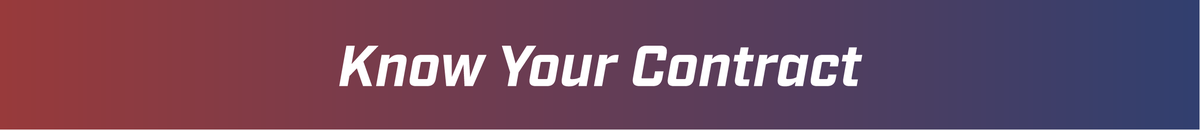
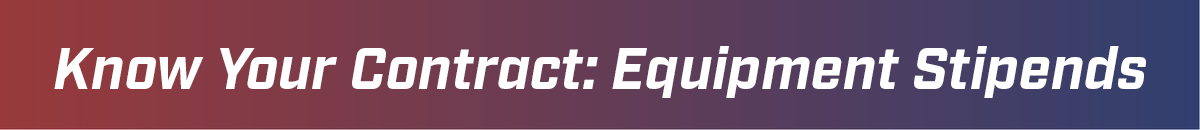
Add files via upload

Changed region(s): [[0.0308, 0.3385, 0.9558, 0.7692]]

diff --git a/index.html b/index.html
@@ -195,7 +195,9 @@ body {
   font-weight: 300;
   line-height: 25px;
   text-align: justify;
+  margin-top: 12px;
 }
+.qa-a:first-of-type { margin-top: 6px; }
 
 /* ─────────────────────────────────────
    PSRA IN THE COMMUNITY
@@ -331,7 +333,7 @@ body {
        HERO — referees photo, title baked in
   ══════════════════════════════ -->
   <div class="hero">
-    <img src="images/headerAsset 3-100.jpg" alt="Message from PSRA President Peter Manikowski"/>
+    <img src="images/headerAsset-3-100.jpg" alt="Message from PSRA President Peter Manikowski"/>
   </div>
 
   <!-- ══════════════════════════════
@@ -348,6 +350,22 @@ body {
 <p>Through Unity, Strength.</p>
 <p>Peter Manikowski</p>
   </div>
+<!-- ══════════════════════════════
+       NEW MEMBERS
+       Pink bg (#ffe6e9) wraps both the gradient pill image AND the names below.
+       The pill image already has pink padding baked in on its left/right/top.
+  ══════════════════════════════ -->
+  <div class="nm-section">
+    <img src="images/committee updatesAsset 5-8.png" alt="New Members: Welcome to PSRA!"/>
+    <div class="nm-grid">
+      <div class="nm-name">Ryan Homik</div>
+      <div class="nm-name">Alex Adkins</div>
+      <div class="nm-name">Laadi Issaka Black</div>
+      <div class="nm-name">Emmanuel Padilla</div>
+      <div class="nm-name">Deny Kulasinac</div>
+      <div class="nm-name">Jorge Escobar</div>
+    </div>
+  </div>
 
 
   <!-- ══════════════════════════════
@@ -360,38 +378,18 @@ body {
     <img src="images/committee updatesAsset 4-100.jpg" alt="Committee Updates"/>
   </div>
   <div class="body-sec">
-    <p><strong>Nominations &amp; Voting Committee:</strong> Nothing to report</p>
-<p><strong>Issues &amp; Grievances Committee:</strong> Processed three grievances. Continued to take member questions on all CBA items (both Units). Continued advising Board on CBA issues and member inquiries. Always open to questions and hypothetical scenarios!</p>
-    <p><strong>New Member Committee:</strong> In Q1 2026, PSRA admitted 2 new members to the Association.</p>
-    <p><strong>Media Committee:</strong> We'd like to give a special thanks to committee member Chris Canales for his work on all the graphics you saw on social media for the World Cup matches. Post-World Cup, we're continuing with our usual social media themes and returning to the content created this year. During the World Cup, we had 931k views of our content on Facebook and gained 607 new followers, which is a 7% increase. On Instagram, we had 323k views and 192 new followers; an 8% increase. Adding a nominal 30k impressions from Twitter/Bluesky brings our total to just over 1.28m views for the tournament. The Men&rsquo;s World Cup was a great showcase for our Officials, for us as an organization, and for the professionalism and experience we all possess. </p>
-    <p><strong>Medical Committee:</strong> Continued assisting members with questions related to PRO medical.</p>
-    <p><strong>Financial Planning Committee:</strong> No formal committee activity in Q2.</p>
-<p><strong>BU2 Negotiating Committee:</strong></p>
-    <ul>
-      <li>
-        <p>Two-day bargaining sessions were held in June, July, and August. We are pleased with the progress we've made so far, and look forward to more improvements for Officials in BU2 leagues.</p>
-      </li>
-    </ul>
+	  <p><strong>BU2 Negotiating Committee:</strong> Two-day bargaining sessions were held in June, July, and August. We are pleased with the progress we've made so far, and look forward to more improvements for Officials in BU2 leagues.
+      <p><strong>Media Committee:</strong> We'd like to give a special thanks to committee member Chris Canales for his work on all the graphics you saw on social media for the World Cup matches. Post-World Cup, we're continuing with our usual social media themes and returning to the content created this year. During the World Cup, we had 931k views of our content on Facebook and gained 607 new followers, which is a 7% increase. On Instagram, we had 323k views and 192 new followers; an 8% increase. Adding a nominal 30k impressions from Twitter/Bluesky brings our total to just over 1.28m views for the tournament. The Men&rsquo;s World Cup was a great showcase for our Officials, for us as an organization, and for the professionalism and experience we all possess.
+      
+    <p><strong>No formal committee activity for the following comittees:</strong> </p>
+    <p>Financial Planning Committee<br>
+      Issues &amp; Grievances Committee<br>
+      Medical Committee<br>
+    Nominations &amp; Voting Committee</p>
+    
   </div>
 
-  <!-- ══════════════════════════════
-       KNOW YOUR CONTRACT
-       Full-width gradient band image, then white body text
-  ══════════════════════════════ -->
-  <div class="kyc-band">
-    <img src="images/kyc.png" alt="Know Your Contract"/>
-  </div>
-  <div class="body-sec">
-    <p><strong>Equipment Stipends</strong></p>
-    <p>A key benefit of a Collective Bargaining Agreement (CBA) is knowing every perk available to you, including stipends for work-related items. Under the BU1 and BU2 CBAs, Members are entitled to stipends for essential equipment like cards, flags, and whistles. When PSRA Members actively claim these stipends, it gives our bargaining team the leverage needed to negotiate even broader equipment benefits in future contracts. </p>
-    <p><strong>BU2: Article XIV, Section 3, H </strong></p>
-    <p>&ldquo;PRO shall reimburse Referees and Assistant Referees each Season up to ninety-five dollars ($95.00) in the 2023 Season (amount to increase by three percent (3.0%) in each subsequent Season) upon submission of a valid receipt for work-related equipment, including, but not limited to, whistles, custom ear molds, wristbands, flags, and shoes for officiating and/or training.&rdquo;</p>
-    <p>For 2026 the reimbursable amount is $103.81. </p>
-    <p><strong>BU1: Article XIV, Section 3, C</strong></p>
-    <p>&ldquo;PRO shall reimburse each Referee and Assistant Referee up to seventy-five dollars ($75.00) per year, which shall increase by 3% in 2025, 7% in 2026, 3% in 2027, 3% in 2028, 4% in 2029, and 4% in 2030 through the date of expiration, as set forth in Exhibit K, with appropriately-submit receipts, for officiating supplies, subject to approval by PRO, which shall not be unreasonably denied.&rdquo;</p>
-    <p>For 2026, the reimbursable amount is $82.68.</p>
-  </div>
-
+  
   <!-- ══════════════════════════════
        MEMBER'S SPOTLIGHT
        Entire section — image + intro text + Q&A — sits on pink (#ffe6e9) bg.
@@ -408,58 +406,73 @@ body {
     <div class="qna">
       <div class="qa">
         <p class="qa-q">Q: <strong>Where did your soccer journey begin?</strong></p>
-<p class="qa-a">A: I grew up in Cache Valley in northern Utah, near Logan. I started playing soccer when I was 5 years old, and my dad and I started refereeing together when I was 12. Soccer was always a huge part of my life, and I played all through high school.<br>
-  I originally started running track just to stay in shape for soccer, but I found out I was pretty good at it! Our 4x100 relay team won a state championship, and I eventually walked onto the track team at Utah State University, where I competed in the heptathlon. Through all of that, I kept refereeing.</p>
-</div>
+<p class="qa-a">A: I grew up in Cache Valley in northern Utah, near Logan. I started playing soccer when I was 5 years old, and my dad and I started refereeing together when I was 12. Soccer was always a huge part of my life, and I played all through high school.</p>
+<p class="qa-a">I originally started running track just to stay in shape for soccer, but I found out I was pretty good at it! Our 4x100 relay team won a state championship, and I eventually walked onto the track team at Utah State University, where I competed in the heptathlon. Through all of that, I kept refereeing.</p>
+      </div>
       <div class="qa">
         <p class="qa-q">Q: <strong>Did you ever think about giving up officiating?</strong></p>
-<p class="qa-a">A: Absolutely. I had graduated, landed my &quot;big-girl&quot; job teaching PE and ninth-grade health, and I was getting married. I thought it was probably time to move on from refereeing.<br>
-  Thankfully, I met a mentor, J.P. Spicer-Escalante, who introduced me to the pathway that eventually led to professional officiating. He encouraged me not to quit, and I owe a lot to both him and my dad. Looking back, I'm so glad I kept going.</p>
-</div>
+<p class="qa-a">A: Absolutely. I had graduated, landed my &quot;big-girl&quot; job teaching PE and ninth-grade health, and I was getting married. I thought it was probably time to move on from refereeing.</p>
+<p class="qa-a">Thankfully, I met a mentor, J.P. Spicer-Escalante, who introduced me to the pathway that eventually led to professional officiating. He encouraged me not to quit, and I owe a lot to both him and my dad. Looking back, I'm so glad I kept going.</p>
+      </div>
       <div class="qa">
         <p class="qa-q">Q: <strong>What does life look like outside of officiating?</strong></p>
-<p class="qa-a">A:Busy! We live in Idaho Falls, Idaho, and I wear a lot of different hats. I'm a certified personal trainer, coach strength and speed for high school girls, help teach dance, and of course officiate soccer.<br>
-  I have a hard time saying no because I genuinely love giving back, especially when it comes to kids. One of my favorite things is helping people discover what they're capable of. I had a student in PE who struggled to run a mile, and by the end of the semester, he'd improved dramatically and actually started enjoying being active. Watching someone find confidence in themselves is incredibly rewarding.</p>
-</div>
+<p class="qa-a">A:Busy! We live in Idaho Falls, Idaho, and I wear a lot of different hats. I'm a certified personal trainer, coach strength and speed for high school girls, help teach dance, and of course officiate soccer.</p>
+<p class="qa-a">I have a hard time saying no because I genuinely love giving back, especially when it comes to kids. One of my favorite things is helping people discover what they're capable of. I had a student in PE who struggled to run a mile, and by the end of the semester, he'd improved dramatically and actually started enjoying being active. Watching someone find confidence in themselves is incredibly rewarding.</p>
+      </div>
       <div class="qa">
         <p class="qa-q">Q: <strong>You've done dance, cheer, soccer and track. How have those experiences shaped you?</strong></p>
-<p class="qa-a">A: My parents did a great job of exposing me to lots of different activities instead of pushing me into just one sport. I danced for 14 years, cheered in high school, played soccer and competed in track.<br>
-  Each activity taught me something different. Dance helped me understand body control and coordination. Soccer gave me a competitive edge and taught me teamwork. Track challenged me mentally because individual events are completely on you. Looking back, all of those experiences built on each other and helped shape who I am today.<br>
-  They also taught me how to manage my time and prioritize what matters. I really learned how to balance work, family and the things I love.</p>
-</div>
+<p class="qa-a">A: My parents did a great job of exposing me to lots of different activities instead of pushing me into just one sport. I danced for 14 years, cheered in high school, played soccer and competed in track.</p>
+<p class="qa-a">Each activity taught me something different. Dance helped me understand body control and coordination. Soccer gave me a competitive edge and taught me teamwork. Track challenged me mentally because individual events are completely on you. Looking back, all of those experiences built on each other and helped shape who I am today.</p>
+<p class="qa-a">They also taught me how to manage my time and prioritize what matters. I really learned how to balance work, family and the things I love.</p>
+      </div>
       <div class="qa">
         <p class="qa-q">Q: <strong>Tell us about your family.</strong></p>
 <p class="qa-a">A:My husband and I have two daughters who definitely keep us busy!<br>
-  Ellie is 10 years old. She competes in dance, loves reading, is a huge Harry Potter fan and recently discovered pickleball.<br>
-  Addie is 6 and competes in gymnastics. She's naturally athletic and competitive. She even taught herself how to do an aerial!<br>
-  When we're together as a family, we love hiking, boating, camping, playing games, having campfires and watching movies. Those moments are really special.<br>
-  One of my favorite officiating memories was working my first MLS match in Salt Lake City. There was a guy in the crowd who was yelling negative things about me. My oldest daughter glowered at the man and said, &ldquo;Hey! That&rsquo;s my MOM!&rdquo; My husband told me about it later. Apparently the man was quiet after that. It was a sweet gesture from her.</p>
-</div>
+  Ellie is 10 years old. She competes in dance, loves reading, is a huge Harry Potter fan and recently discovered pickleball.</p>
+<p class="qa-a">Addie is 6 and competes in gymnastics. She's naturally athletic and competitive. She even taught herself how to do an aerial!</p>
+<p class="qa-a">When we're together as a family, we love hiking, boating, camping, playing games, having campfires and watching movies. Those moments are really special.</p>
+<p class="qa-a">One of my favorite officiating memories was working my first MLS match in Salt Lake City. There was a guy in the crowd who was yelling negative things about me. My oldest daughter glowered at the man and said, &ldquo;Hey! That&rsquo;s my MOM!&rdquo; My husband told me about it later. Apparently the man was quiet after that. It was a sweet gesture from her.</p>
+      </div>
       <div class="qa">
         <p class="qa-q">Q: <strong>You are accomplished in so many ways. Do you have any hidden talents?</strong></p>
 <p class="qa-a">A: I am actually pretty good at doing hair! I get asked for help a lot and it&rsquo;s fun for me. In fact, a bunch of refs went to the wedding of another ref – and I did everyone&rsquo;s hair!</p>
 </div>
       <div class="qa">
         <p class="qa-q">Q: <strong>How do you prepare mentally for big matches?</strong></p>
-<p class="qa-a">A: The biggest thing for me is prayer and meditation. Finding quiet time before a match helps me get my head in the right place.<br>
-  During a game, if something doesn't go perfectly, I remind myself, &quot;Next one. Get the next one right.&quot; You can't dwell on the last decision because the next one is already coming.<br>
-  And I'll admit it—I don't normally drink caffeine...except on game days! It gives me a little extra energy and helps me stay focused.<br>
-  Whenever things get hard, whether it's a fitness test or preparing for a major tournament, I remind myself why I'm doing this. It's because I love it. I also think about what I'm teaching my daughters, that it's okay to do hard things and always give your best effort.</p>
-</div>
+<p class="qa-a">A: The biggest thing for me is prayer and meditation. Finding quiet time before a match helps me get my head in the right place.</p>
+<p class="qa-a">During a game, if something doesn't go perfectly, I remind myself, &quot;Next one. Get the next one right.&quot; You can't dwell on the last decision because the next one is already coming.</p>
+<p class="qa-a">And I'll admit it—I don't normally drink caffeine...except on game days! It gives me a little extra energy and helps me stay focused.</p>
+<p class="qa-a">Whenever things get hard, whether it's a fitness test or preparing for a major tournament, I remind myself why I'm doing this. It's because I love it. I also think about what I'm teaching my daughters, that it's okay to do hard things and always give your best effort.</p>
+      </div>
       <div class="qa">
         <p class="qa-q">Q: <strong>What has it been like watching this year's World Cup?</strong></p>
-<p class="qa-a">A: It's been incredible. There were so many great matches, and while people worried about expanding the field, we also saw countries step up and really compete. I'm always cheering for the underdog and love seeing people perform at their very best.<br>
-  It was also exciting to see fellow PSRA and PRO officials like Drew, Ish, and Tori representing our profession on such a big stage.</p>
-</div>
+<p class="qa-a">A: It's been incredible. There were so many great matches, and while people worried about expanding the field, we also saw countries step up and really compete. I'm always cheering for the underdog and love seeing people perform at their very best.</p>
+<p class="qa-a">It was also exciting to see fellow PSRA and PRO officials like Drew, Ish, and Tori representing our profession on such a big stage.</p>
+      </div>
       <div class="qa">
         <p class="qa-q">Q: <strong>What's your advice for officials working toward the next level?</strong></p>
-<p class="qa-a">A: Never stop believing in yourself, and don't be afraid to ask, &quot;Why not me?&quot;<br>
-  Advocate for yourself. Control what you can control—your fitness, your knowledge of the laws of the game and your preparation. Give people every reason to choose you.<br>
-  If you're not selected this time, stay motivated. Keep improving, because the next opportunity is always coming.</p>
-</div>
+<p class="qa-a">A: Never stop believing in yourself, and don't be afraid to ask, &quot;Why not me?&quot;</p>
+<p class="qa-a">Advocate for yourself. Control what you can control—your fitness, your knowledge of the laws of the game and your preparation. Give people every reason to choose you.</p>
+<p class="qa-a">If you're not selected this time, stay motivated. Keep improving, because the next opportunity is always coming.</p>
+      </div>
     </div>
   </div>
-
+<!-- ══════════════════════════════
+       KNOW YOUR CONTRACT
+       Full-width gradient band image, then white body text
+  ══════════════════════════════ -->
+  <div class="kyc-band">
+    <img src="images/kyc.png" alt="Know Your Contract"/>
+  </div>
+  <div class="body-sec">
+    <p>A key benefit of a Collective Bargaining Agreement (CBA) is knowing every perk available to you, including stipends for work-related items. Under the BU1 and BU2 CBAs, Members are entitled to stipends for essential equipment like cards, flags, and whistles. When PSRA Members actively claim these stipends, it gives our bargaining team the leverage needed to negotiate even broader equipment benefits in future contracts. </p>
+    <p><strong>BU2: Article XIV, Section 3, H </strong></p>
+    <p>&ldquo;PRO shall reimburse Referees and Assistant Referees each Season up to ninety-five dollars ($95.00) in the 2023 Season (amount to increase by three percent (3.0%) in each subsequent Season) upon submission of a valid receipt for work-related equipment, including, but not limited to, whistles, custom ear molds, wristbands, flags, and shoes for officiating and/or training.&rdquo;</p>
+    <p>For 2026 the reimbursable amount is $103.81. </p>
+    <p><strong>BU1: Article XIV, Section 3, C</strong></p>
+    <p>&ldquo;PRO shall reimburse each Referee and Assistant Referee up to seventy-five dollars ($75.00) per year, which shall increase by 3% in 2025, 7% in 2026, 3% in 2027, 3% in 2028, 4% in 2029, and 4% in 2030 through the date of expiration, as set forth in Exhibit K, with appropriately-submit receipts, for officiating supplies, subject to approval by PRO, which shall not be unreasonably denied.&rdquo;</p>
+    <p>For 2026, the reimbursable amount is $82.68.</p>
+  </div>
 
   <!-- ══════════════════════════════
        MEMBERS: SEND GAME DAY PHOTOS
